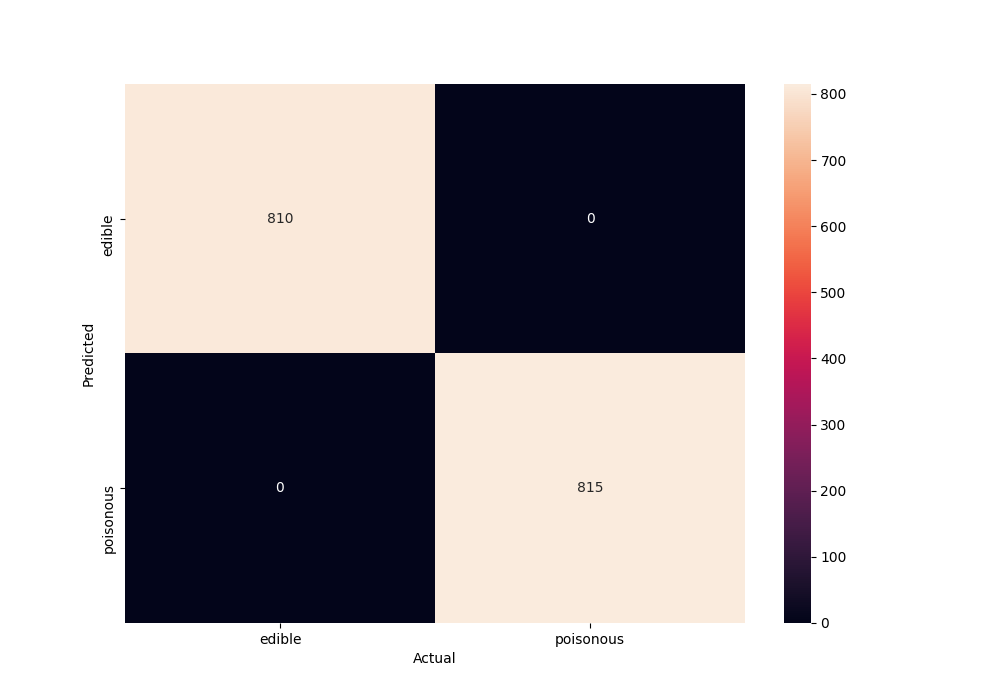
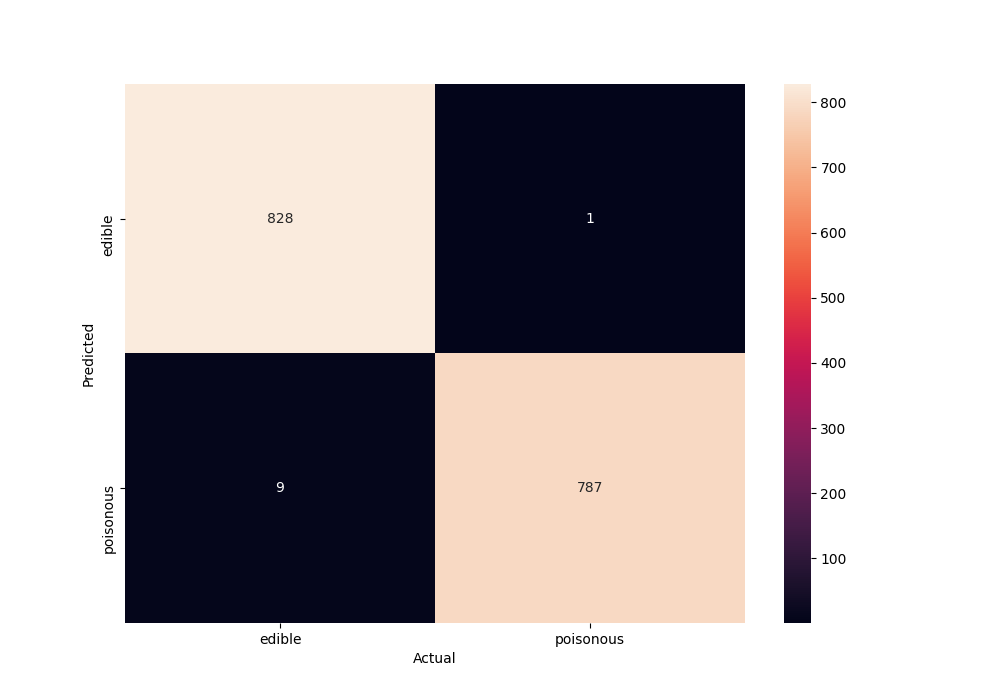
pruned decision trees

diff --git a/decision_tree.py b/decision_tree.py
@@ -40,15 +40,15 @@ def do_decision_tree(df):
     best_predictions = pd.DataFrame([], columns=get_class_column_names())
     best_test_labels = pd.DataFrame([], columns=get_class_column_names())
 
-    dt = DecisionTreeClassifier(random_state=0, max_depth=4)
+    dt = DecisionTreeClassifier(random_state=0, max_depth=4, min_samples_leaf=5)
+
+    class_columns, feature_columns = dataset_utility.get_split_column_names(
+        df_enc, get_class_column_names()
+    )
+
+    features, labels = preprocess.split_features_labels(df_enc, class_columns)
 
     for i in range(k_fold_splits):
-
-        class_columns, feature_columns = dataset_utility.get_split_column_names(
-            df, get_class_column_names()
-        )
-
-        features, labels = preprocess.split_features_labels(df_enc, class_columns)
 
         result = next(kf.split(df_enc), None)
         train_features = features.iloc[result[0]]
@@ -96,3 +96,13 @@ def do_decision_tree(df):
 
     print("K-fold results: ", accuracies)
     print("Mean accuracy: ", np.mean(accuracies))
+
+    fig = plt.figure(figsize=(25, 20))
+    _ = tree.plot_tree(
+        dt,
+        feature_names=feature_columns,
+        class_names=class_columns,
+        filled=True,
+        rounded=True,
+    )
+    fig.savefig("decision_tree.png")

diff --git a/fill-missing.py b/fill-missing.py
@@ -5,6 +5,7 @@ import pydotplus
 
 from sklearn.model_selection import train_test_split
 from sklearn.tree import DecisionTreeClassifier, export_graphviz
+
 from sklearn import tree
 from sklearn.metrics import accuracy_score
 
@@ -62,7 +63,7 @@ missing = preprocess.remove_class_columns(missing, class_columns)
 train_features, train_labels = preprocess.split_features_labels(train, class_columns)
 
 
-dt = DecisionTreeClassifier(random_state=0, max_depth=5)
+dt = DecisionTreeClassifier(random_state=0, max_depth=5, min_samples_leaf=10)
 dt.fit(train_features, train_labels)
 
 dt.score(train_features, train_labels)
@@ -77,10 +78,10 @@ fig = plt.figure(figsize=(25, 20))
 _ = tree.plot_tree(
     dt,
     feature_names=feature_columns,
-    class_names=get_class_column_names(),
+    class_names=class_columns,
     filled=True,
 )
-fig.savefig("decision_tree.png")
+fig.savefig("decision_tree-missing-values.png")
 
 
 predictions = pd.DataFrame(predictions, columns=get_class_column_names())
